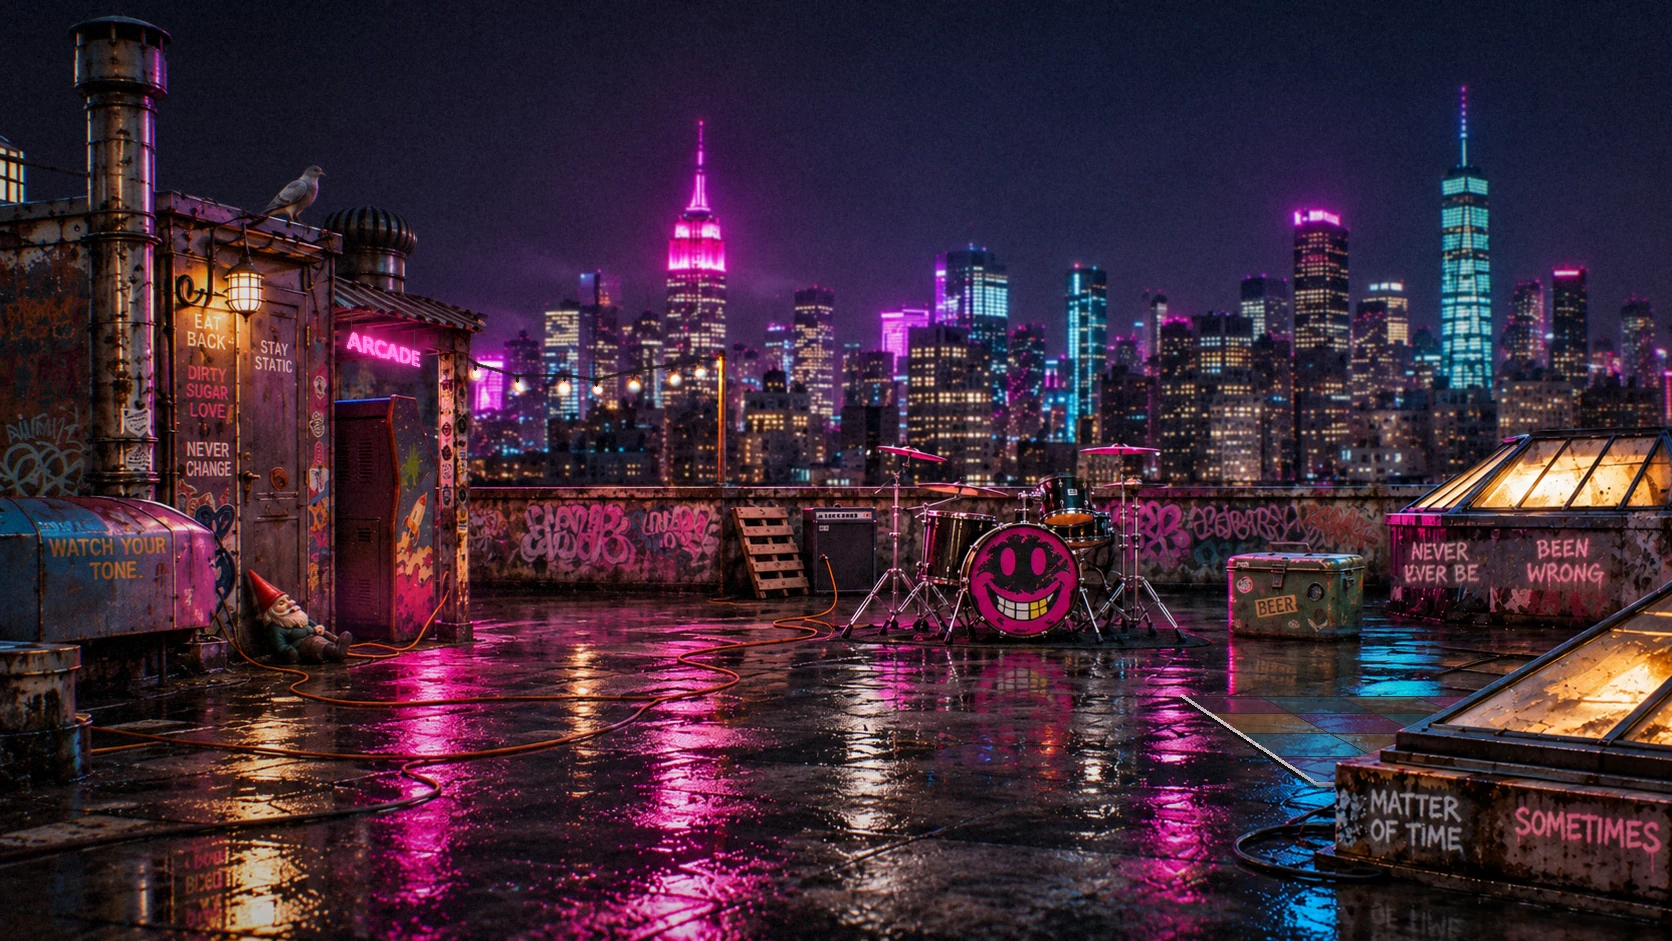
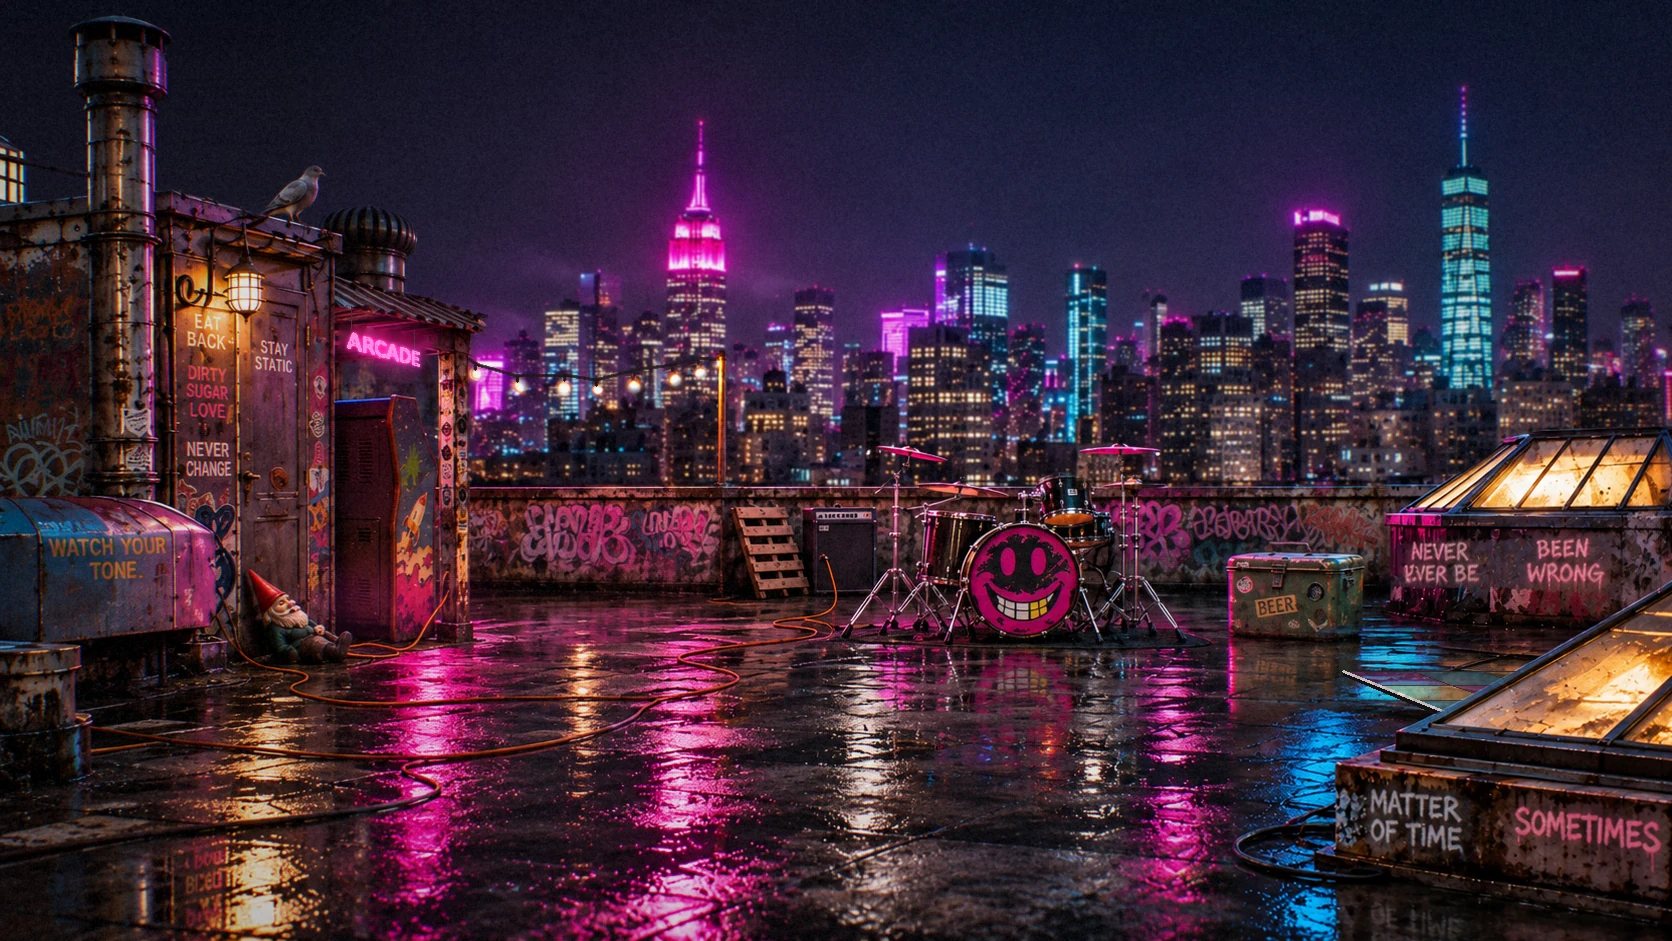
Main roof: dance floor moved
Claude-Session: https://claude.ai/code/session_011gssdMsenVXumrh9a32rRB

Changed region(s): [[0.7153, 0.7088, 0.9019, 0.8629]]

diff --git a/index.html b/index.html
@@ -98,7 +98,7 @@ input{flex:1 1 220px;min-width:0;font:inherit;font-size:16px;padding:12px;backgr
 @media (max-width:760px){.stage{-webkit-user-select:none;user-select:none;-webkit-touch-callout:none}}
 #play{position:absolute;left:0;top:0;width:1672px;height:941px;transform-origin:0 0;z-index:3;pointer-events:none}
 #play .pk,#lg-play .pk{appearance:none;-webkit-appearance:none;background-color:transparent;border:0;padding:0;margin:0;color:transparent;position:absolute;pointer-events:auto;cursor:pointer;border-radius:8px;-webkit-tap-highlight-color:transparent}
-#play .pk.img{background-image:url(img/roof-main.webp?v=1);background-size:1672px 941px;-webkit-mask-image:radial-gradient(ellipse 50% 50% at 50% 50%,#000 70%,transparent 100%);mask-image:radial-gradient(ellipse 50% 50% at 50% 50%,#000 70%,transparent 100%)}
+#play .pk.img{background-image:url(img/roof-main.webp?v=2);background-size:1672px 941px;-webkit-mask-image:radial-gradient(ellipse 50% 50% at 50% 50%,#000 70%,transparent 100%);mask-image:radial-gradient(ellipse 50% 50% at 50% 50%,#000 70%,transparent 100%)}
 #roof-fx{position:absolute;left:0;top:0;width:1672px;height:941px;pointer-events:none;z-index:60}
 #roof-glass{position:absolute;left:0;top:0;width:1672px;height:941px;pointer-events:none;z-index:60;opacity:0;background:#ff3fd0;-webkit-mask:url(img/roof-glass.webp?v=1) 0 0/1672px 941px;mask:url(img/roof-glass.webp?v=1) 0 0/1672px 941px;mix-blend-mode:screen}
 #play a.pk{display:block}
@@ -247,7 +247,7 @@ input{flex:1 1 220px;min-width:0;font:inherit;font-size:16px;padding:12px;backgr
     <button class="pk" id="pk-cooler" style="left:1225px;top:550px;width:140px;height:90px" aria-label="Cooler"></button>
     <div id="roof-glass" aria-hidden="true"></div>
     <canvas id="roof-fx" width="1672" height="941" aria-hidden="true"></canvas>
-    <a class="pk" id="pk-floor" href="#lounge" data-lounge style="left:1170px;top:680px;width:260px;height:115px;clip-path:polygon(3% 10%,96% 5%,64% 83%,57% 96%,3% 14%)" aria-label="Dance floor: go to the Smile Lounge"></a>
+    <a class="pk" id="pk-floor" href="#lounge" data-lounge style="left:1337px;top:665px;width:185px;height:51px;clip-path:polygon(3.2% 11.8%,55.7% 88.2%,96.8% 11.8%)" aria-label="Dance floor: go to the Smile Lounge"></a>
     <a class="pk" id="pk-arcade" href="#arcade" data-arcade style="left:335px;top:318px;width:128px;height:245px" aria-label="Arcade: go to the game corner"></a>
     <canvas id="pat-fx" width="1672" height="941"></canvas>
     <div id="tags"></div>
@@ -290,7 +290,7 @@ input{flex:1 1 220px;min-width:0;font:inherit;font-size:16px;padding:12px;backgr
 .lounge:not(.on),.lounge:not(.on) *{pointer-events:none!important}
 .lounge.moving .lg-fill{opacity:.25}.lg-fill{transition:opacity .4s;position:absolute;inset:-40px;background:url(img/smile-lounge.webp?v=1) 40% 50%/cover;filter:blur(22px) brightness(.45)}
 .lg-cam,.lg-hero{position:absolute;left:0;top:0;width:1672px;height:941px;transform-origin:0 0;will-change:transform,opacity}
-.lg-cam{z-index:8}.lg-hero{z-index:2;background:url(img/roof-main.webp?v=1) 0 0/1672px 941px;pointer-events:none}
+.lg-cam{z-index:8}.lg-hero{z-index:2;background:url(img/roof-main.webp?v=2) 0 0/1672px 941px;pointer-events:none}
 .lg-cam img{position:absolute;display:block;user-select:none;-webkit-user-drag:none}
 .lg-bg{left:0;top:0;width:1672px;height:941px}
 .lg-front{left:341px;top:489px;width:886px;height:405px;pointer-events:none}
@@ -620,7 +620,7 @@ input{flex:1 1 220px;min-width:0;font:inherit;font-size:16px;padding:12px;backgr
   const cl=(v)=>Math.max(0,Math.min(1,v));
   function run(ms,f,done){ ms*=(window.__TS||1); const t0=performance.now(); function st(now){ const t=cl((now-t0)/ms); f(t); if(t<1) anim=requestAnimationFrame(st); else {anim=null;done&&done();} } anim=requestAnimationFrame(st); }
   const soft=t=>t*t*(3-2*t);
-  const FOCUS={x:1290,y:735};   // the dance floor peek on the main roof
+  const FOCUS={x:1433,y:683};   // the dance floor peek on the main roof
   function heroAt(hb,k){ const sx=hb.ox+FOCUS.x*hb.s, sy=hb.oy+FOCUS.y*hb.s; hero.style.transform=`translate(${sx-(sx-hb.ox)*k}px,${sy-(sy-hb.oy)*k}px) scale(${hb.s*k})`; }
   function camAt(M,k){ const sx=innerWidth/2, sy=innerHeight/2; cam.style.transform=`translate(${sx-(sx-M.ox)*k}px,${sy-(sy-M.oy)*k}px) scale(${M.s*k})`; }
   function enter(){
@@ -863,7 +863,7 @@ input{flex:1 1 220px;min-width:0;font:inherit;font-size:16px;padding:12px;backgr
 .arcade:not(.on),.arcade:not(.on) *{pointer-events:none!important}
 .ac-fill{position:absolute;inset:-40px;background:url(img/game-corner.webp?v=1) 30% 50%/cover;filter:blur(22px) brightness(.45)}
 .ac-cam,.ac-hero{position:absolute;left:0;top:0;width:1672px;height:941px;transform-origin:0 0;will-change:transform,opacity}
-.ac-cam{z-index:8}.ac-hero{z-index:2;background:url(img/roof-main.webp?v=1) 0 0/1672px 941px;pointer-events:none;display:none}
+.ac-cam{z-index:8}.ac-hero{z-index:2;background:url(img/roof-main.webp?v=2) 0 0/1672px 941px;pointer-events:none;display:none}
 .ac-cam>img{position:absolute;left:0;top:0;width:1672px;height:941px;user-select:none;-webkit-user-drag:none}
 .ac-hot{all:unset;position:absolute;cursor:pointer;border-radius:10px;z-index:3}
 .ac-hot:focus-visible{outline:4px solid var(--cyan);outline-offset:4px}
@@ -947,7 +947,7 @@ input{flex:1 1 220px;min-width:0;font:inherit;font-size:16px;padding:12px;backgr
 /* ---------- the dance floor: lever in the Smile Lounge, glow + beams carry over to the main roof ---------- */
 (()=>{
   const $=id=>document.getElementById(id), still=matchMedia("(prefers-reduced-motion:reduce)").matches;
-  const LT=[[[675.7, 766.2], [834.2, 751.2], [881.0, 776.1], [714.8, 794.5], 0, 0], [[834.2, 751.2], [970.1, 738.3], [1022.1, 760.5], [881.0, 776.1], 1, 0], [[970.1, 738.3], [1088.0, 727.1], [1143.4, 747.0], [1022.1, 760.5], 2, 0], [[1088.0, 727.1], [1191.2, 717.3], [1248.8, 735.4], [1143.4, 747.0], 3, 0], [[1191.2, 717.3], [1282.3, 708.6], [1341.1, 725.2], [1248.8, 735.4], 4, 0], [[1282.3, 708.6], [1363.4, 700.9], [1422.8, 716.1], [1341.1, 725.2], 5, 0], [[1363.4, 700.9], [1435.9, 694.0], [1495.5, 708.1], [1422.8, 716.1], 6, 0], [[714.8, 794.5], [881.0, 776.1], [934.9, 804.7], [760.2, 827.4], 0, 1], [[881.0, 776.1], [1022.1, 760.5], [1081.4, 785.7], [934.9, 804.7], 1, 1], [[1022.1, 760.5], [1143.4, 747.0], [1205.9, 769.6], [1081.4, 785.7], 2, 1], [[1143.4, 747.0], [1248.8, 735.4], [1313.2, 755.6], [1205.9, 769.6], 3, 1], [[1248.8, 735.4], [1341.1, 725.2], [1406.4, 743.5], [1313.2, 755.6], 4, 1], [[1341.1, 725.2], [1422.8, 716.1], [1488.3, 732.9], [1406.4, 743.5], 5, 1], [[1422.8, 716.1], [1495.5, 708.1], [1560.8, 723.5], [1488.3, 732.9], 6, 1], [[760.2, 827.4], [934.9, 804.7], [997.5, 838.0], [813.8, 866.1], 0, 2], [[934.9, 804.7], [1081.4, 785.7], [1149.3, 814.7], [997.5, 838.0], 1, 2], [[1081.4, 785.7], [1205.9, 769.6], [1276.9, 795.1], [1149.3, 814.7], 2, 2], [[1205.9, 769.6], [1313.2, 755.6], [1385.6, 778.4], [1276.9, 795.1], 3, 2], [[1313.2, 755.6], [1406.4, 743.5], [1479.4, 764.1], [1385.6, 778.4], 4, 2], [[1406.4, 743.5], [1488.3, 732.9], [1561.1, 751.5], [1479.4, 764.1], 5, 2], [[1488.3, 732.9], [1560.8, 723.5], [1632.9, 740.5], [1561.1, 751.5], 6, 2], [[813.8, 866.1], [997.5, 838.0], [1071.1, 877.1], [877.9, 912.5], 0, 3], [[997.5, 838.0], [1149.3, 814.7], [1228.1, 848.3], [1071.1, 877.1], 1, 3], [[1149.3, 814.7], [1276.9, 795.1], [1358.3, 824.4], [1228.1, 848.3], 2, 3], [[1276.9, 795.1], [1385.6, 778.4], [1467.9, 804.3], [1358.3, 824.4], 3, 3], [[1385.6, 778.4], [1479.4, 764.1], [1561.4, 787.1], [1467.9, 804.3], 4, 3], [[1479.4, 764.1], [1561.1, 751.5], [1642.3, 772.3], [1561.4, 787.1], 5, 3], [[1561.1, 751.5], [1632.9, 740.5], [1712.8, 759.4], [1642.3, 772.3], 6, 3], [[877.9, 912.5], [1071.1, 877.1], [1158.9, 923.7], [955.9, 969.0], 0, 4], [[1071.1, 877.1], [1228.1, 848.3], [1320.6, 887.7], [1158.9, 923.7], 1, 4], [[1228.1, 848.3], [1358.3, 824.4], [1452.4, 858.3], [1320.6, 887.7], 2, 4], [[1358.3, 824.4], [1467.9, 804.3], [1561.9, 833.9], [1452.4, 858.3], 3, 4], [[1467.9, 804.3], [1561.4, 787.1], [1654.4, 813.3], [1561.9, 833.9], 4, 4], [[1561.4, 787.1], [1642.3, 772.3], [1733.4, 795.7], [1654.4, 813.3], 5, 4], [[1642.3, 772.3], [1712.8, 759.4], [1801.8, 780.4], [1733.4, 795.7], 6, 4], [[955.9, 969.0], [1158.9, 923.7], [1265.4, 980.3], [1052.9, 1039.2], 0, 5], [[1158.9, 923.7], [1320.6, 887.7], [1430.5, 934.6], [1265.4, 980.3], 1, 5], [[1320.6, 887.7], [1452.4, 858.3], [1562.5, 898.0], [1430.5, 934.6], 2, 5], [[1452.4, 858.3], [1561.9, 833.9], [1670.5, 868.1], [1562.5, 898.0], 3, 5], [[1561.9, 833.9], [1654.4, 813.3], [1760.5, 843.1], [1670.5, 868.1], 4, 5], [[1654.4, 813.3], [1733.4, 795.7], [1836.6, 822.1], [1760.5, 843.1], 5, 5], [[1733.4, 795.7], [1801.8, 780.4], [1901.7, 804.0], [1836.6, 822.1], 6, 5], [[1052.9, 1039.2], [1265.4, 980.3], [1397.3, 1050.4], [1176.8, 1128.9], 0, 6], [[1265.4, 980.3], [1430.5, 934.6], [1563.5, 991.2], [1397.3, 1050.4], 1, 6], [[1430.5, 934.6], [1562.5, 898.0], [1693.2, 945.0], [1563.5, 991.2], 2, 6], [[1562.5, 898.0], [1670.5, 868.1], [1797.4, 908.0], [1693.2, 945.0], 3, 6], [[1670.5, 868.1], [1760.5, 843.1], [1882.8, 877.5], [1797.4, 908.0], 4, 6], [[1760.5, 843.1], [1836.6, 822.1], [1954.1, 852.1], [1882.8, 877.5], 5, 6], [[1836.6, 822.1], [1901.7, 804.0], [2014.6, 830.6], [1954.1, 852.1], 6, 6], [[1176.8, 1128.9], [1397.3, 1050.4], [1564.9, 1139.5], [1340.7, 1247.6], 0, 7], [[1397.3, 1050.4], [1563.5, 991.2], [1727.5, 1061.2], [1564.9, 1139.5], 1, 7], [[1563.5, 991.2], [1693.2, 945.0], [1850.8, 1001.8], [1727.5, 1061.2], 2, 7], [[1693.2, 945.0], [1797.4, 908.0], [1947.5, 955.2], [1850.8, 1001.8], 3, 7], [[1797.4, 908.0], [1882.8, 877.5], [2025.4, 917.7], [1947.5, 955.2], 4, 7], [[1882.8, 877.5], [1954.1, 852.1], [2089.4, 886.8], [2025.4, 917.7], 5, 7], [[1954.1, 852.1], [2014.6, 830.6], [2143.1, 860.9], [2089.4, 886.8], 6, 7]], MT=[[[1274.2, 756.2], [1372.6, 756.2], [1425.3, 784.3], [1317.2, 784.3], 0, 0], [[1238.2, 732.7], [1328.5, 732.7], [1372.6, 756.2], [1274.2, 756.2], 0, 1], [[1207.7, 712.8], [1291.2, 712.8], [1328.5, 732.7], [1238.2, 732.7], 0, 2], [[1181.5, 695.6], [1259.1, 695.6], [1291.2, 712.8], [1207.7, 712.8], 0, 3], [[1372.6, 756.2], [1471.0, 756.2], [1533.3, 784.3], [1425.3, 784.3], 1, 0], [[1328.5, 732.7], [1418.8, 732.7], [1471.0, 756.2], [1372.6, 756.2], 1, 1], [[1291.2, 712.8], [1374.6, 712.8], [1418.8, 732.7], [1328.5, 732.7], 1, 2], [[1259.1, 695.6], [1336.6, 695.6], [1374.6, 712.8], [1291.2, 712.8], 1, 3], [[1471.0, 756.2], [1569.3, 756.2], [1641.4, 784.3], [1533.3, 784.3], 2, 0], [[1418.8, 732.7], [1509.1, 732.7], [1569.3, 756.2], [1471.0, 756.2], 2, 1], [[1374.6, 712.8], [1458.1, 712.8], [1509.1, 732.7], [1418.8, 732.7], 2, 2], [[1336.6, 695.6], [1414.2, 695.6], [1458.1, 712.8], [1374.6, 712.8], 2, 3], [[1569.3, 756.2], [1667.7, 756.2], [1749.4, 784.3], [1641.4, 784.3], 3, 0], [[1509.1, 732.7], [1599.4, 732.7], [1667.7, 756.2], [1569.3, 756.2], 3, 1], [[1458.1, 712.8], [1541.5, 712.8], [1599.4, 732.7], [1509.1, 732.7], 3, 2], [[1414.2, 695.6], [1491.8, 695.6], [1541.5, 712.8], [1458.1, 712.8], 3, 3], [[1667.7, 756.2], [1766.1, 756.2], [1857.4, 784.3], [1749.4, 784.3], 4, 0], [[1599.4, 732.7], [1689.7, 732.7], [1766.1, 756.2], [1667.7, 756.2], 4, 1], [[1541.5, 712.8], [1625.0, 712.8], [1689.7, 732.7], [1599.4, 732.7], 4, 2], [[1491.8, 695.6], [1569.3, 695.6], [1625.0, 712.8], [1541.5, 712.8], 4, 3]];
+  const LT=[[[675.7, 766.2], [834.2, 751.2], [881.0, 776.1], [714.8, 794.5], 0, 0], [[834.2, 751.2], [970.1, 738.3], [1022.1, 760.5], [881.0, 776.1], 1, 0], [[970.1, 738.3], [1088.0, 727.1], [1143.4, 747.0], [1022.1, 760.5], 2, 0], [[1088.0, 727.1], [1191.2, 717.3], [1248.8, 735.4], [1143.4, 747.0], 3, 0], [[1191.2, 717.3], [1282.3, 708.6], [1341.1, 725.2], [1248.8, 735.4], 4, 0], [[1282.3, 708.6], [1363.4, 700.9], [1422.8, 716.1], [1341.1, 725.2], 5, 0], [[1363.4, 700.9], [1435.9, 694.0], [1495.5, 708.1], [1422.8, 716.1], 6, 0], [[714.8, 794.5], [881.0, 776.1], [934.9, 804.7], [760.2, 827.4], 0, 1], [[881.0, 776.1], [1022.1, 760.5], [1081.4, 785.7], [934.9, 804.7], 1, 1], [[1022.1, 760.5], [1143.4, 747.0], [1205.9, 769.6], [1081.4, 785.7], 2, 1], [[1143.4, 747.0], [1248.8, 735.4], [1313.2, 755.6], [1205.9, 769.6], 3, 1], [[1248.8, 735.4], [1341.1, 725.2], [1406.4, 743.5], [1313.2, 755.6], 4, 1], [[1341.1, 725.2], [1422.8, 716.1], [1488.3, 732.9], [1406.4, 743.5], 5, 1], [[1422.8, 716.1], [1495.5, 708.1], [1560.8, 723.5], [1488.3, 732.9], 6, 1], [[760.2, 827.4], [934.9, 804.7], [997.5, 838.0], [813.8, 866.1], 0, 2], [[934.9, 804.7], [1081.4, 785.7], [1149.3, 814.7], [997.5, 838.0], 1, 2], [[1081.4, 785.7], [1205.9, 769.6], [1276.9, 795.1], [1149.3, 814.7], 2, 2], [[1205.9, 769.6], [1313.2, 755.6], [1385.6, 778.4], [1276.9, 795.1], 3, 2], [[1313.2, 755.6], [1406.4, 743.5], [1479.4, 764.1], [1385.6, 778.4], 4, 2], [[1406.4, 743.5], [1488.3, 732.9], [1561.1, 751.5], [1479.4, 764.1], 5, 2], [[1488.3, 732.9], [1560.8, 723.5], [1632.9, 740.5], [1561.1, 751.5], 6, 2], [[813.8, 866.1], [997.5, 838.0], [1071.1, 877.1], [877.9, 912.5], 0, 3], [[997.5, 838.0], [1149.3, 814.7], [1228.1, 848.3], [1071.1, 877.1], 1, 3], [[1149.3, 814.7], [1276.9, 795.1], [1358.3, 824.4], [1228.1, 848.3], 2, 3], [[1276.9, 795.1], [1385.6, 778.4], [1467.9, 804.3], [1358.3, 824.4], 3, 3], [[1385.6, 778.4], [1479.4, 764.1], [1561.4, 787.1], [1467.9, 804.3], 4, 3], [[1479.4, 764.1], [1561.1, 751.5], [1642.3, 772.3], [1561.4, 787.1], 5, 3], [[1561.1, 751.5], [1632.9, 740.5], [1712.8, 759.4], [1642.3, 772.3], 6, 3], [[877.9, 912.5], [1071.1, 877.1], [1158.9, 923.7], [955.9, 969.0], 0, 4], [[1071.1, 877.1], [1228.1, 848.3], [1320.6, 887.7], [1158.9, 923.7], 1, 4], [[1228.1, 848.3], [1358.3, 824.4], [1452.4, 858.3], [1320.6, 887.7], 2, 4], [[1358.3, 824.4], [1467.9, 804.3], [1561.9, 833.9], [1452.4, 858.3], 3, 4], [[1467.9, 804.3], [1561.4, 787.1], [1654.4, 813.3], [1561.9, 833.9], 4, 4], [[1561.4, 787.1], [1642.3, 772.3], [1733.4, 795.7], [1654.4, 813.3], 5, 4], [[1642.3, 772.3], [1712.8, 759.4], [1801.8, 780.4], [1733.4, 795.7], 6, 4], [[955.9, 969.0], [1158.9, 923.7], [1265.4, 980.3], [1052.9, 1039.2], 0, 5], [[1158.9, 923.7], [1320.6, 887.7], [1430.5, 934.6], [1265.4, 980.3], 1, 5], [[1320.6, 887.7], [1452.4, 858.3], [1562.5, 898.0], [1430.5, 934.6], 2, 5], [[1452.4, 858.3], [1561.9, 833.9], [1670.5, 868.1], [1562.5, 898.0], 3, 5], [[1561.9, 833.9], [1654.4, 813.3], [1760.5, 843.1], [1670.5, 868.1], 4, 5], [[1654.4, 813.3], [1733.4, 795.7], [1836.6, 822.1], [1760.5, 843.1], 5, 5], [[1733.4, 795.7], [1801.8, 780.4], [1901.7, 804.0], [1836.6, 822.1], 6, 5], [[1052.9, 1039.2], [1265.4, 980.3], [1397.3, 1050.4], [1176.8, 1128.9], 0, 6], [[1265.4, 980.3], [1430.5, 934.6], [1563.5, 991.2], [1397.3, 1050.4], 1, 6], [[1430.5, 934.6], [1562.5, 898.0], [1693.2, 945.0], [1563.5, 991.2], 2, 6], [[1562.5, 898.0], [1670.5, 868.1], [1797.4, 908.0], [1693.2, 945.0], 3, 6], [[1670.5, 868.1], [1760.5, 843.1], [1882.8, 877.5], [1797.4, 908.0], 4, 6], [[1760.5, 843.1], [1836.6, 822.1], [1954.1, 852.1], [1882.8, 877.5], 5, 6], [[1836.6, 822.1], [1901.7, 804.0], [2014.6, 830.6], [1954.1, 852.1], 6, 6], [[1176.8, 1128.9], [1397.3, 1050.4], [1564.9, 1139.5], [1340.7, 1247.6], 0, 7], [[1397.3, 1050.4], [1563.5, 991.2], [1727.5, 1061.2], [1564.9, 1139.5], 1, 7], [[1563.5, 991.2], [1693.2, 945.0], [1850.8, 1001.8], [1727.5, 1061.2], 2, 7], [[1693.2, 945.0], [1797.4, 908.0], [1947.5, 955.2], [1850.8, 1001.8], 3, 7], [[1797.4, 908.0], [1882.8, 877.5], [2025.4, 917.7], [1947.5, 955.2], 4, 7], [[1882.8, 877.5], [1954.1, 852.1], [2089.4, 886.8], [2025.4, 917.7], 5, 7], [[1954.1, 852.1], [2014.6, 830.6], [2143.1, 860.9], [2089.4, 886.8], 6, 7]], MT=[[[1461.2, 718.2], [1546.6, 718.2], [1606.3, 739.1], [1513.8, 739.1], 0, 0], [[1416.2, 700.4], [1495.4, 700.4], [1546.6, 718.2], [1461.2, 718.2], 0, 1], [[1377.3, 684.9], [1451.1, 684.9], [1495.4, 700.4], [1416.2, 700.4], 0, 2], [[1343.2, 671.4], [1412.4, 671.4], [1451.1, 684.9], [1377.3, 684.9], 0, 3], [[1546.6, 718.2], [1631.9, 718.2], [1698.8, 739.1], [1606.3, 739.1], 1, 0], [[1495.4, 700.4], [1574.6, 700.4], [1631.9, 718.2], [1546.6, 718.2], 1, 1], [[1451.1, 684.9], [1525.0, 684.9], [1574.6, 700.4], [1495.4, 700.4], 1, 2], [[1412.4, 671.4], [1481.7, 671.4], [1525.0, 684.9], [1451.1, 684.9], 1, 3], [[1631.9, 718.2], [1717.2, 718.2], [1791.4, 739.1], [1698.8, 739.1], 2, 0], [[1574.6, 700.4], [1653.8, 700.4], [1717.2, 718.2], [1631.9, 718.2], 2, 1], [[1525.0, 684.9], [1598.9, 684.9], [1653.8, 700.4], [1574.6, 700.4], 2, 2], [[1481.7, 671.4], [1550.9, 671.4], [1598.9, 684.9], [1525.0, 684.9], 2, 3], [[1717.2, 718.2], [1802.6, 718.2], [1883.9, 739.1], [1791.4, 739.1], 3, 0], [[1653.8, 700.4], [1733.0, 700.4], [1802.6, 718.2], [1717.2, 718.2], 3, 1], [[1598.9, 684.9], [1672.8, 684.9], [1733.0, 700.4], [1653.8, 700.4], 3, 2], [[1550.9, 671.4], [1620.1, 671.4], [1672.8, 684.9], [1598.9, 684.9], 3, 3], [[1802.6, 718.2], [1887.9, 718.2], [1976.4, 739.1], [1883.9, 739.1], 4, 0], [[1733.0, 700.4], [1812.2, 700.4], [1887.9, 718.2], [1802.6, 718.2], 4, 1], [[1672.8, 684.9], [1746.6, 684.9], [1812.2, 700.4], [1733.0, 700.4], 4, 2], [[1620.1, 671.4], [1689.3, 671.4], [1746.6, 684.9], [1672.8, 684.9], 4, 3]];
   const lcv=$("lg-fx"), lx=lcv.getContext("2d"), mcv=$("roof-fx"), mx=mcv.getContext("2d"), glass=$("roof-glass"), plOn=$("pl-on"), lever=$("lg-lever");
   const occ=new Image(); occ.src="img/roof-occ.webp?v=1";
   const PAL=["#ff46c8","#46dcff","#ffaa46","#aa5aff"];
@@ -1000,7 +1000,7 @@ input{flex:1 1 220px;min-width:0;font:inherit;font-size:16px;padding:12px;backgr
       if(occ.complete&&occ.naturalWidth){ mx.globalCompositeOperation="destination-out"; mx.drawImage(occ,0,0,1672,941); }
       mx.globalCompositeOperation="lighter";
       if(on){ beams(mx,MCANS,now,.55); const c=PAL[step%4]; glass.style.background=c; glass.style.opacity=String(.28+.3*amp);
-        const r=mx.createRadialGradient(1290,750,0,1290,750,200); r.addColorStop(0,c+"55"); r.addColorStop(1,c+"00"); mx.fillStyle=r; mx.beginPath(); mx.ellipse(1290,750,220,60,0,0,7); mx.fill(); }
+        const r=mx.createRadialGradient(1433,703,0,1433,703,200); r.addColorStop(0,c+"55"); r.addColorStop(1,c+"00"); mx.fillStyle=r; mx.beginPath(); mx.ellipse(1433,703,200,50,0,0,7); mx.fill(); }
       mx.globalCompositeOperation="source-over"; }
     if(on||P||stut) kick();
   }
@@ -1306,7 +1306,7 @@ input{flex:1 1 220px;min-width:0;font:inherit;font-size:16px;padding:12px;backgr
   let signupBound=false;
   function render(c){
     const hints=c.site&&c.site.showSetupHints;
-    $("stage").style.backgroundImage=`url("${(c.images&&c.images.hero)||"img/roof-main.webp?v=1"}")`;
+    $("stage").style.backgroundImage=`url("${(c.images&&c.images.hero)||"img/roof-main.webp?v=2"}")`;
     const m=c.music,f=m.featured;
     const sub=[f.status,f.length].filter(Boolean).join(" · ");
     $("t-listen").textContent=f.title+" ▸"; $("t-listen-sub").textContent=sub;
